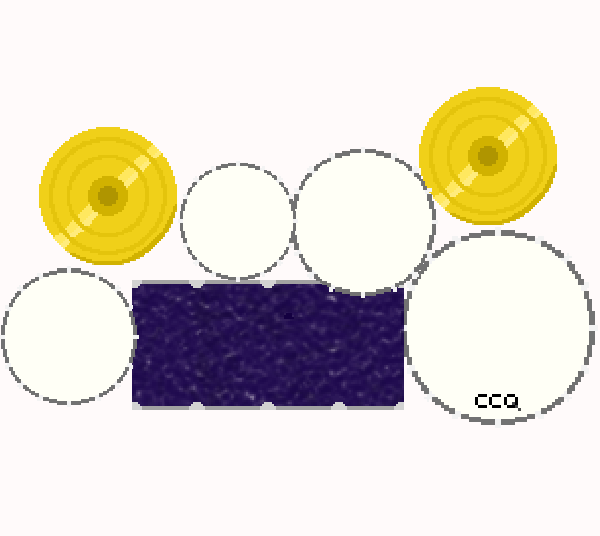
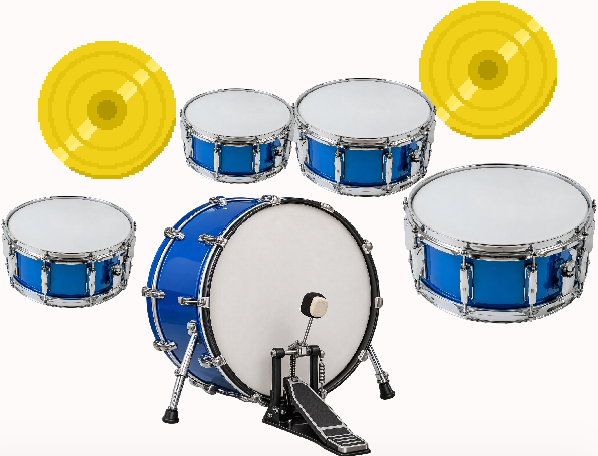
Drums small visual Changes
Added photos of actual drums.

diff --git a/eBmpGame/dist/while_you_wait.html b/eBmpGame/dist/while_you_wait.html
@@ -207,9 +207,16 @@ body {
   image-rendering: pixelated;
 }
 
-.drums {
-  background:transparent;
-  border: none;
+
+.drums,
+.drums:hover,
+.drums:active,
+.drums:focus,
+.drums:focus-visible {
+    background: transparent !important;
+    border: none !important;
+    outline: none !important;
+    box-shadow: none !important;
 }
 
 .drums:active {
@@ -221,7 +228,7 @@ body {
   position: absolute;
   border-radius: 50%;
   width: 136px;
-  height: 65px;
+  height: 135px;
   top: 47%;
   left: 30%;
 }
@@ -422,7 +429,7 @@ body {
 
 }</style><script role="script" id="twine-user-script" type="text/twine-javascript">/* twine-user-script #1: "script.js" */
 setup.prevRand = -1
-setup.currentFidget = "switch"
+setup.currentFidget = "bubbleWrap"
 
 setup.isMouseDown = false;
 setup.light = [0, 0, 0, 0]
@@ -704,7 +711,7 @@ setup.populateFidget = function populateFidget() {
 				let newButton = document.createElement('button');
 				newButton.classList.add(setup.instruments[drum], "drums");
 				let newImg = document.createElement('img');
-				newImg.src = "../../img/measurement/drumSnareNoTag.png"
+				newImg.src = "../../img/measurement/snareDrum.png"
 				newButton.appendChild(newImg)
 
 				newButton.addEventListener('click', () => {
@@ -729,7 +736,7 @@ setup.createUniqueDrums = function createUniqueDrums(container, which) {
 
 	switch (which) {
 		case "bass":
-			drumImg.src = `../../img/measurement/bassDrum.png`
+			drumImg.src = `../../img/measurement/bassDrum2.png`
 			drum.appendChild(drumImg)
 			break;
 		case "crash":
@@ -741,7 +748,7 @@ setup.createUniqueDrums = function createUniqueDrums(container, which) {
 			drum.appendChild(drumImg)
 			break;
 		case "lowTom":
-			drumImg.src = `../../img/measurement/drumSnare.png`
+			drumImg.src = `../../img/measurement/snareDrum.png`
 			drum.appendChild(drumImg)
 			break;
 

diff --git a/eBmpGame/src/script.js b/eBmpGame/src/script.js
@@ -1,5 +1,5 @@
 setup.prevRand = -1
-setup.currentFidget = "switch"
+setup.currentFidget = "bubbleWrap"
 
 setup.isMouseDown = false;
 setup.light = [0, 0, 0, 0]
@@ -281,7 +281,7 @@ setup.populateFidget = function populateFidget() {
 				let newButton = document.createElement('button');
 				newButton.classList.add(setup.instruments[drum], "drums");
 				let newImg = document.createElement('img');
-				newImg.src = "../../img/measurement/drumSnareNoTag.png"
+				newImg.src = "../../img/measurement/snareDrum.png"
 				newButton.appendChild(newImg)
 
 				newButton.addEventListener('click', () => {
@@ -306,7 +306,7 @@ setup.createUniqueDrums = function createUniqueDrums(container, which) {
 
 	switch (which) {
 		case "bass":
-			drumImg.src = `../../img/measurement/bassDrum.png`
+			drumImg.src = `../../img/measurement/bassDrum2.png`
 			drum.appendChild(drumImg)
 			break;
 		case "crash":
@@ -318,7 +318,7 @@ setup.createUniqueDrums = function createUniqueDrums(container, which) {
 			drum.appendChild(drumImg)
 			break;
 		case "lowTom":
-			drumImg.src = `../../img/measurement/drumSnare.png`
+			drumImg.src = `../../img/measurement/snareDrum.png`
 			drum.appendChild(drumImg)
 			break;
 

diff --git a/exerGame/dist/Zombie-chase.html b/exerGame/dist/Zombie-chase.html
@@ -117,7 +117,7 @@ body {
 
 #story {
   margin: 0 auto;
-  max-width: 380px;
+  max-width: 340px;
   padding: 0;
 }
 
@@ -383,7 +383,7 @@ button {
 }</style><script role="script" id="twine-user-script" type="text/twine-javascript">/* twine-user-script #1: "script.js" */
 setup.zombieDist = 20000
 setup.zombieAmount = 100
-setup.multi = 800
+setup.multi = 1
 setup.gameOver = false
 setup.currentStepGoal = 10
 setup.actualDistance = 0
@@ -441,7 +441,7 @@ setup.getZombieDistance = function (distance) {
 
 setup.setMode = function setMode(mode) {
 	setup.mode = mode
-	setup.multi = 800
+	setup.multi = 1
 	setup.currentFinalExtra = 0;
 	setup.exposedExtras = []
 	setup.actualDistance = 0
@@ -471,7 +471,7 @@ setup.reset = function reset() {
 	setup.gameOver = false;
 	setup.actualDistance = 0
 
-	setup.multi = 800;
+	setup.multi = 1;
 	setup.currentFinalExtra = 0;
 	setup.totalWalked = 0
 	setup.exposedExtras = []
